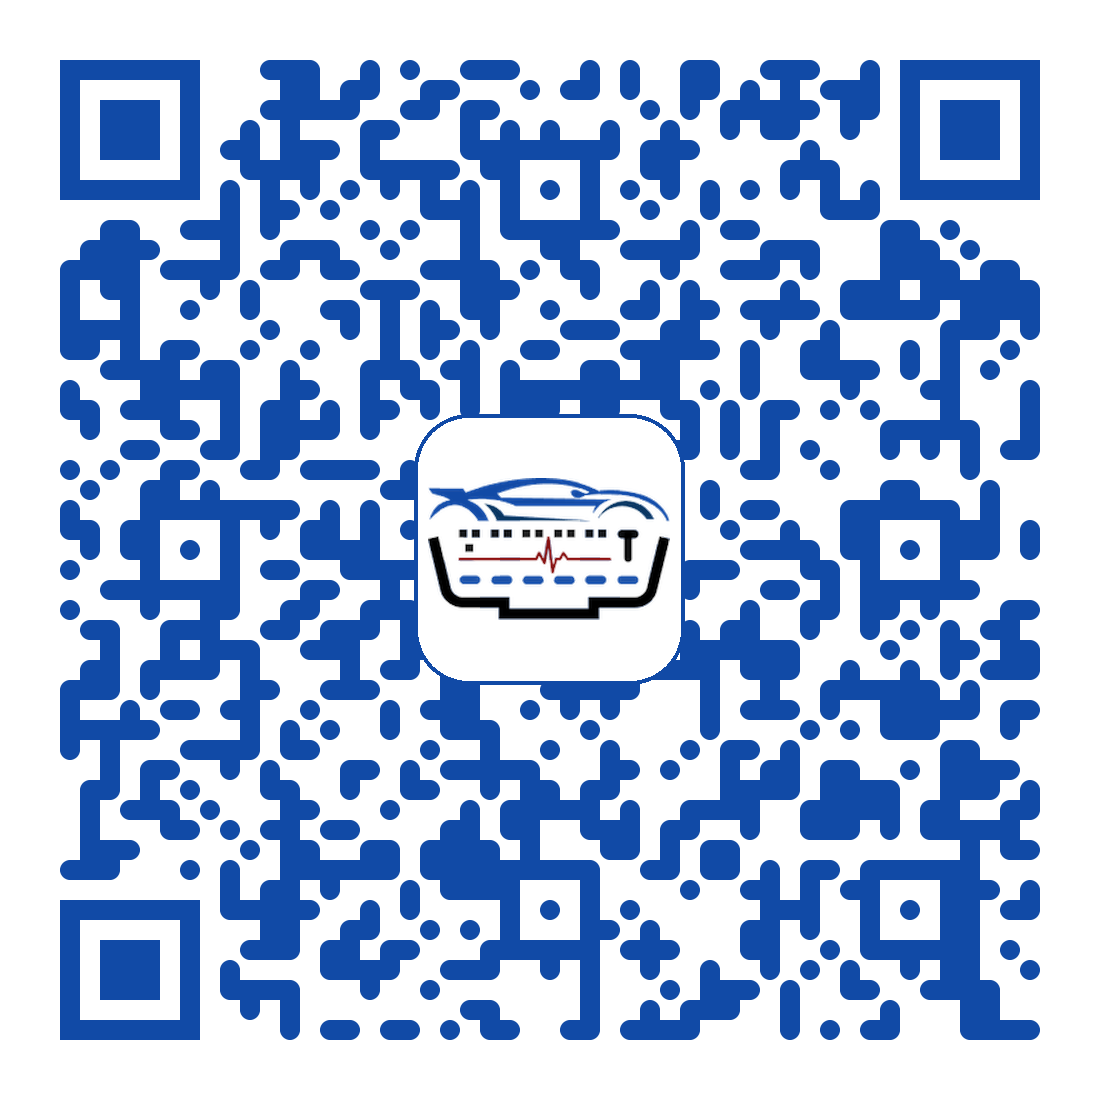
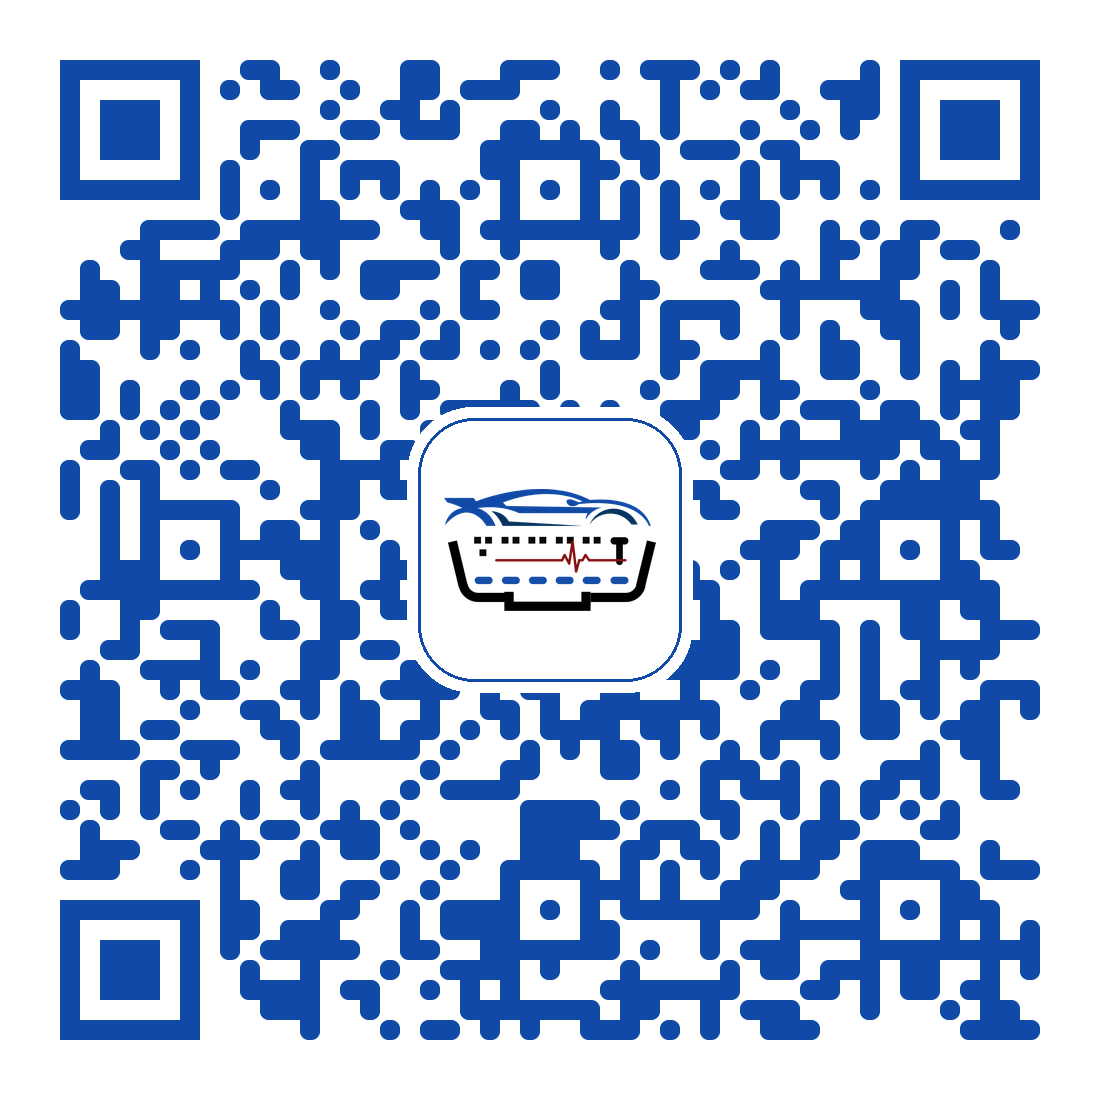
docs(readme): replace QR with direct raw.githubusercontent.com APK download link

diff --git a/README.md b/README.md
@@ -7,7 +7,7 @@
 
 <br/>
 
-[![Download APK](https://img.shields.io/badge/⬇%20Download%20APK-v1.0.0%20(68.8%20MB)-0B5ED7?style=for-the-badge&logo=android&logoColor=white)](https://github.com/dev-momensalman/OBD/raw/release/app-release.apk)
+[![Download APK](https://img.shields.io/badge/⬇%20Download%20APK-v1.0.0%20(68.8%20MB)-0B5ED7?style=for-the-badge&logo=android&logoColor=white)](https://raw.githubusercontent.com/dev-momensalman/OBD/release/app-release.apk)
 [![Release Branch](https://img.shields.io/badge/Release%20Build-v1.0.0-22c55e?style=for-the-badge&logo=github&logoColor=white)](https://github.com/dev-momensalman/OBD/tree/release)
 
 <br/>
@@ -31,7 +31,7 @@
 | **الإصدار / Version** | `v1.0.0 (Build 1)` |
 | **الحجم / File Size** | `68.8 MB` |
 | **نظام التشغيل / OS** | Android 8.0 (API 26) فما فوق |
-| **رابط التحميل المباشر** | [🔗 اضغط هنا للتحميل المباشر (Direct Download)](https://github.com/dev-momensalman/OBD/raw/release/app-release.apk) |
+| **رابط التحميل المباشر** | [🔗 اضغط هنا للتحميل المباشر (Direct Download)](https://raw.githubusercontent.com/dev-momensalman/OBD/release/app-release.apk) |
 
 ---
 
